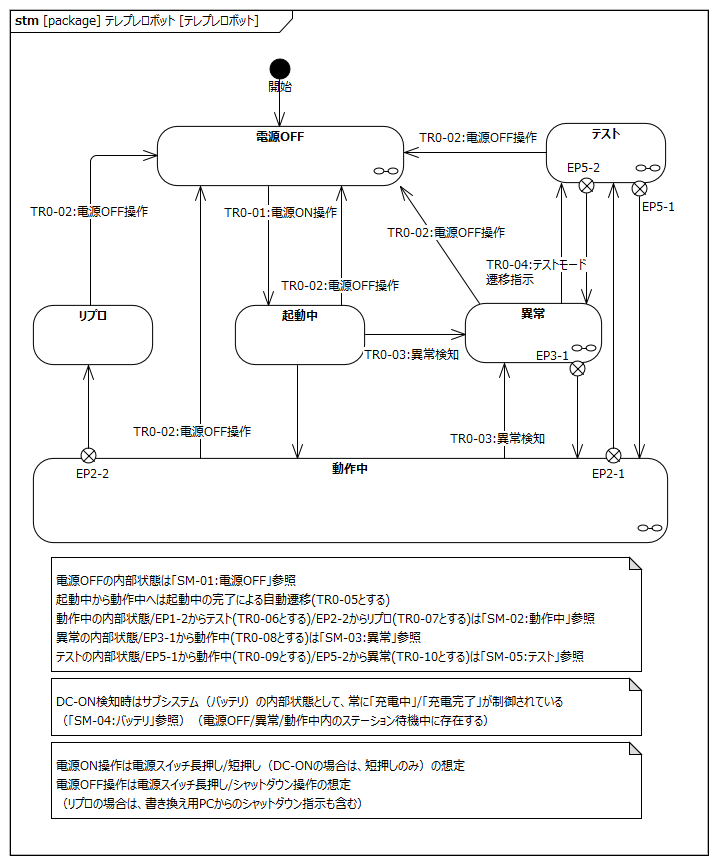
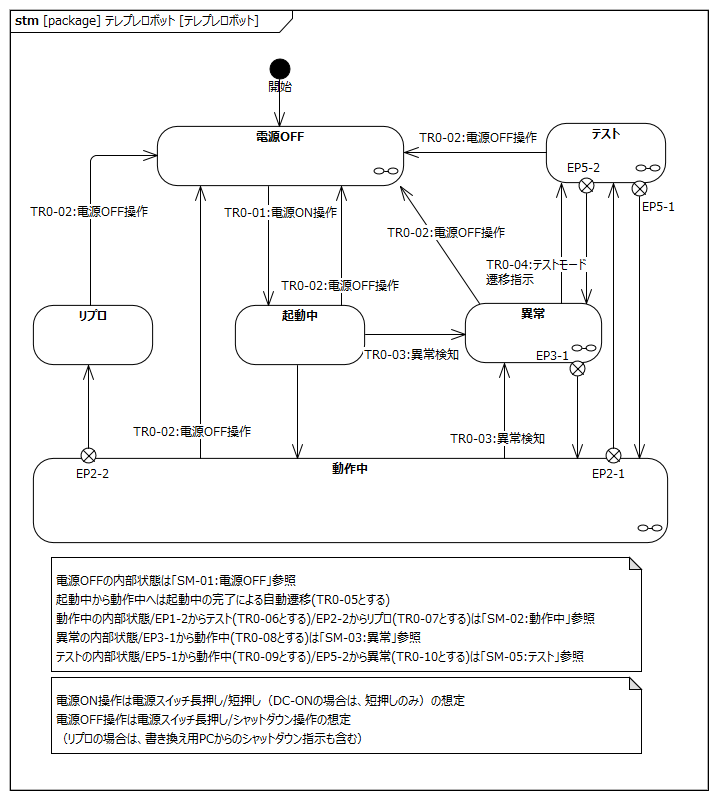
プルリク#58指摘事項対応： ・sm-00.pngで冗長なメモを削除 ・状態の説明で状態遷移の説明になっている箇所を削除

diff --git a/requirements/requirement.md b/requirements/requirement.md
@@ -1148,12 +1148,10 @@ date: 2022年2月09日
 |起動中|テレプレゼンスロボット全体の起動を行っている状態||
 |動作中|テレプレゼンスロボット全体の電源が入っている状態|内部状態は「SM-02:動作中」を参照|
 |異常|異常が発生している状態|内部状態は「SM-03:異常」を参照|
-|テスト|テストモードで起動している状態|内部状態は「SM-05:テスト」を参照※1|
-|リプロ|リプロモードで起動している状態|※2|
+|テスト|テストモードで起動している状態|内部状態は「SM-05:テスト」を参照|
+|リプロ|リプロモードで起動している状態||
 
 ※:DC-ON検知時はサブシステム（バッテリ）の状態として「SM-04:バッテリ」の内部状態が制御されている想定  
-※1:診断PCからのテストモード遷移指示により遷移し、終了時は診断PCからのテストモード解除指示によりテストモード遷移前の状態に戻る（または電源OFF操作により電源OFFとなる）想定  
-※2:書き換え用PCからのリプロモード遷移指示により遷移し、終了時は電源OFF操作（書き換え用PCからのシャットダウン指示も電源OFF操作となる）により電源OFFとなる想定  
 
 
 <div style="page-break-before:always"></div>
